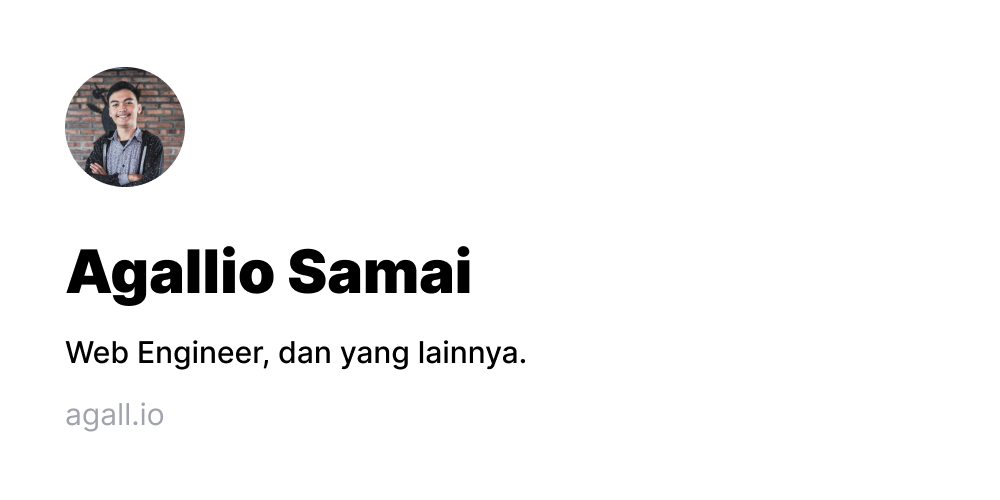
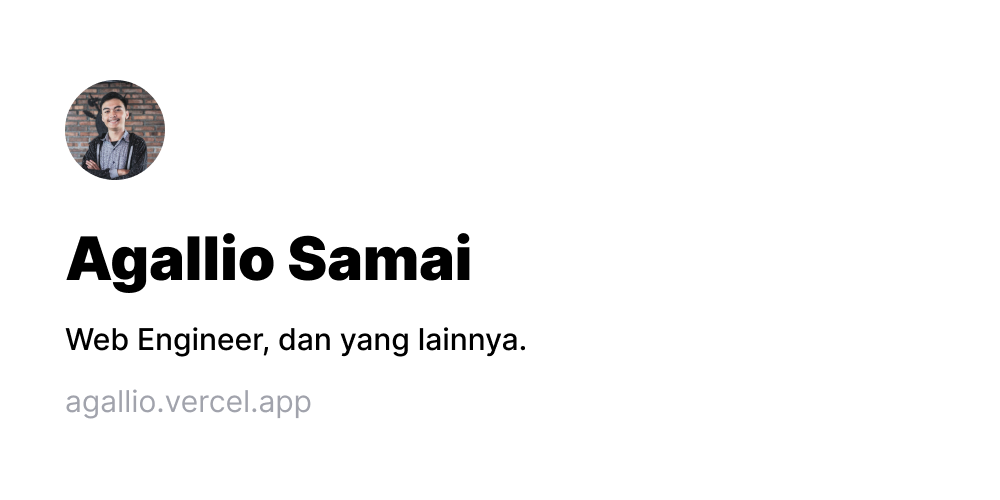
Update SEO config

diff --git a/pages/about.js b/pages/about.js
@@ -9,6 +9,7 @@ import codeTitles from 'remark-code-titles'
 import rSlug from 'rehype-slug'
 import autolinkHeadings from 'rehype-autolink-headings'
 import { Avatar, Container, Flex, Heading, Stack, Text } from '@chakra-ui/react'
+import { NextSeo } from 'next-seo'
 
 // Components
 import components from '~/components/MDXComponents'
@@ -22,8 +23,27 @@ export default function About({ source, frontMatter }) {
   return (
     <>
       <Head>
-        <title>Tentang | agall.io</title>
+        <title>Tentang | Agallio Samai</title>
       </Head>
+      <NextSeo
+        title="Tentang | Agallio Samai"
+        description="Tentang Saya"
+        openGraph={{
+          url: 'https://agallio.vercel.app/about',
+          title: 'Tentang | Agallio Samai',
+          description: 'Tentang Saya',
+          site_name: 'Agallio Samai',
+          images: [
+            {
+              url: 'http://agallio.vercel.app/images/og-about.png',
+              alt: 'Tentang - Agallio Samai',
+            },
+          ],
+        }}
+        twitter={{
+          cardType: 'summary_large_image',
+        }}
+      />
       <Container px="4" py="32" maxW="xl" suppressHydrationWarning={true}>
         {process.browser ? (
           <Stack as="article" flexDir="column">

diff --git a/pages/blog/[slug].js b/pages/blog/[slug].js
@@ -19,6 +19,7 @@ import {
   Text,
   useColorMode,
 } from '@chakra-ui/react'
+import { NextSeo } from 'next-seo'
 
 // Components
 import components from '~/components/MDXComponents'
@@ -38,8 +39,27 @@ export default function PostPage({ source, frontMatter }) {
   return (
     <>
       <Head>
-        <title>{frontMatter.title} | agall.io</title>
+        <title>{frontMatter.title} | Agallio Samai</title>
       </Head>
+      <NextSeo
+        title={`${frontMatter.title} | Agallio Samai`}
+        description={frontMatter.summary}
+        openGraph={{
+          url: 'https://agallio.vercel.app/blog',
+          title: frontMatter.title,
+          description: frontMatter.summary,
+          site_name: 'Agallio Samai',
+          images: [
+            {
+              url: 'http://agallio.vercel.app/images/og-blog.png',
+              alt: 'Blog - Agallio Samai',
+            },
+          ],
+        }}
+        twitter={{
+          cardType: 'summary_large_image',
+        }}
+      />
       <Container px="4" py="32" maxW="xl" suppressHydrationWarning={true}>
         {process.browser ? (
           <Stack

diff --git a/src/components/SEO.js b/src/components/SEO.js
@@ -9,7 +9,7 @@ const SeoConfig = {
     type: 'website',
     locale: 'id_ID',
     url: 'https://agallio.vercel.app',
-    site_name: 'Agallio',
+    site_name: 'Agallio Samai',
     images: [
       {
         url: 'http://agallio.vercel.app/images/og-aga.png',

diff --git a/pages/index.js b/pages/index.js
@@ -11,7 +11,7 @@ export default function Index() {
   return (
     <>
       <Head>
-        <title>Beranda | agall.io</title>
+        <title>Beranda | Agallio Samai</title>
       </Head>
       <Container px="4" py={['28', '32']} maxW="xl">
         <Box>

diff --git a/pages/blog.js b/pages/blog.js
@@ -27,7 +27,7 @@ export default function Blog({ posts }) {
   return (
     <>
       <Head>
-        <title>Blog | agall.io</title>
+        <title>Blog | Agallio Samai</title>
       </Head>
       <Container px="4" py="32" maxW="xl">
         <Stack
